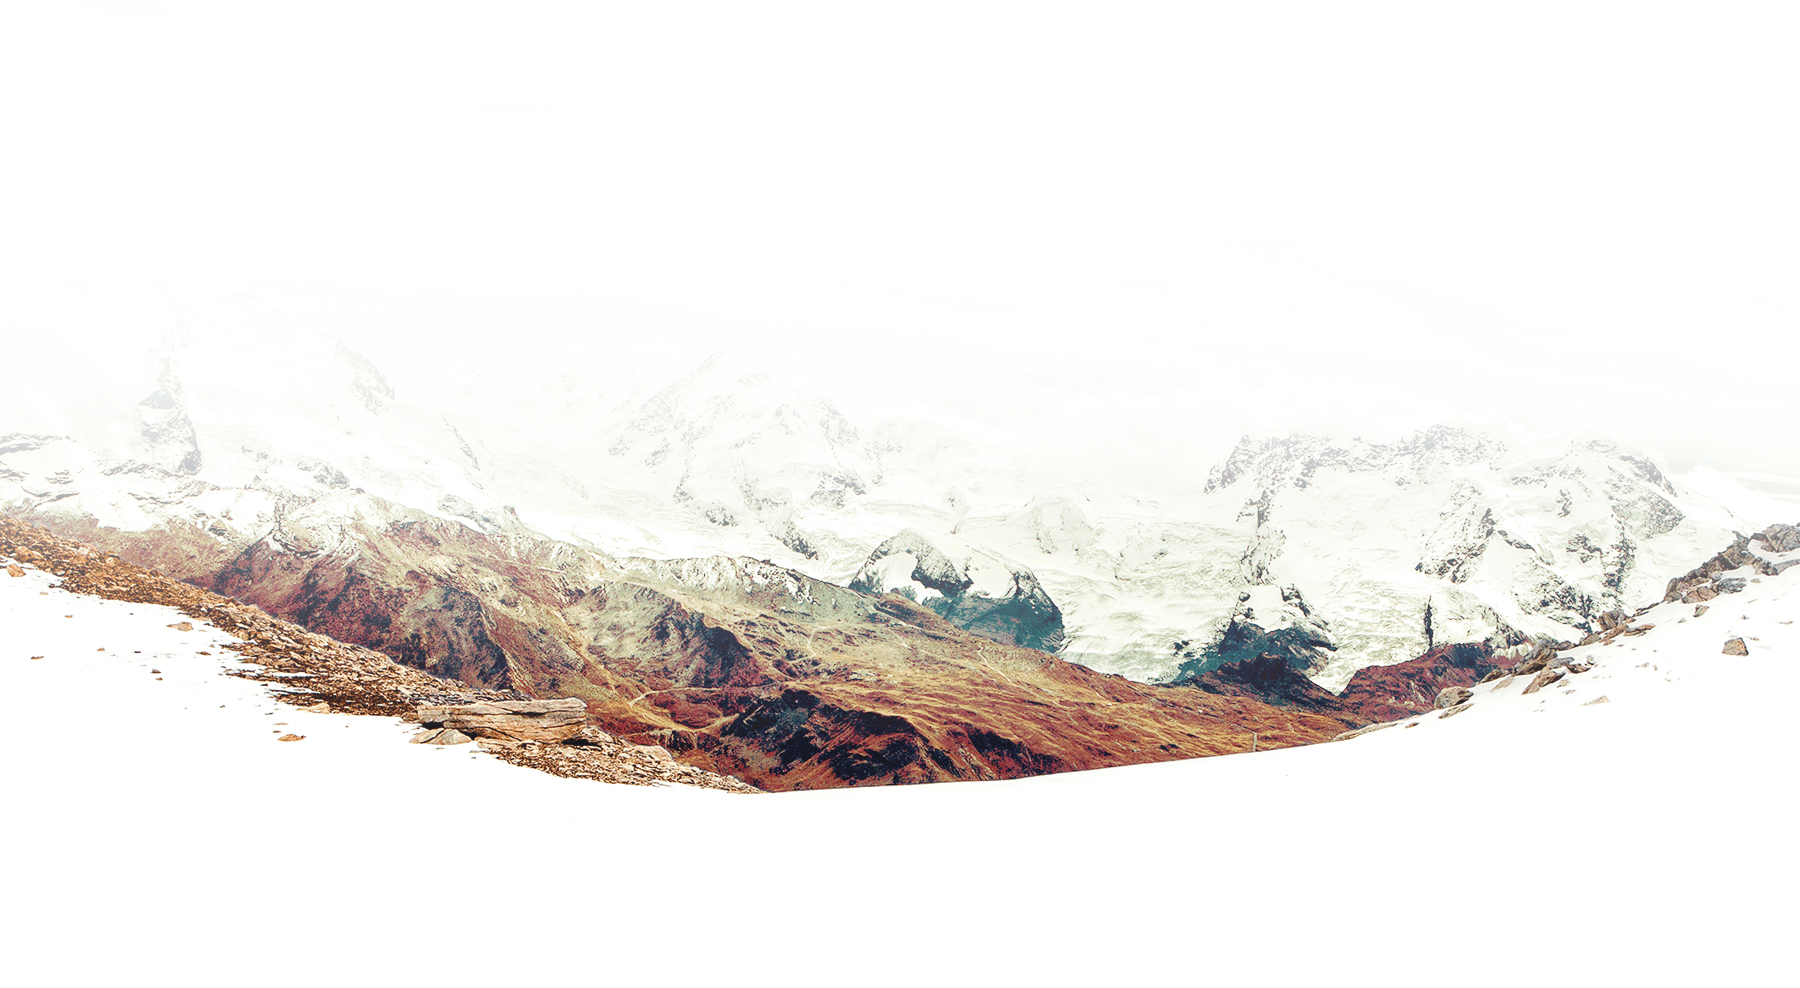
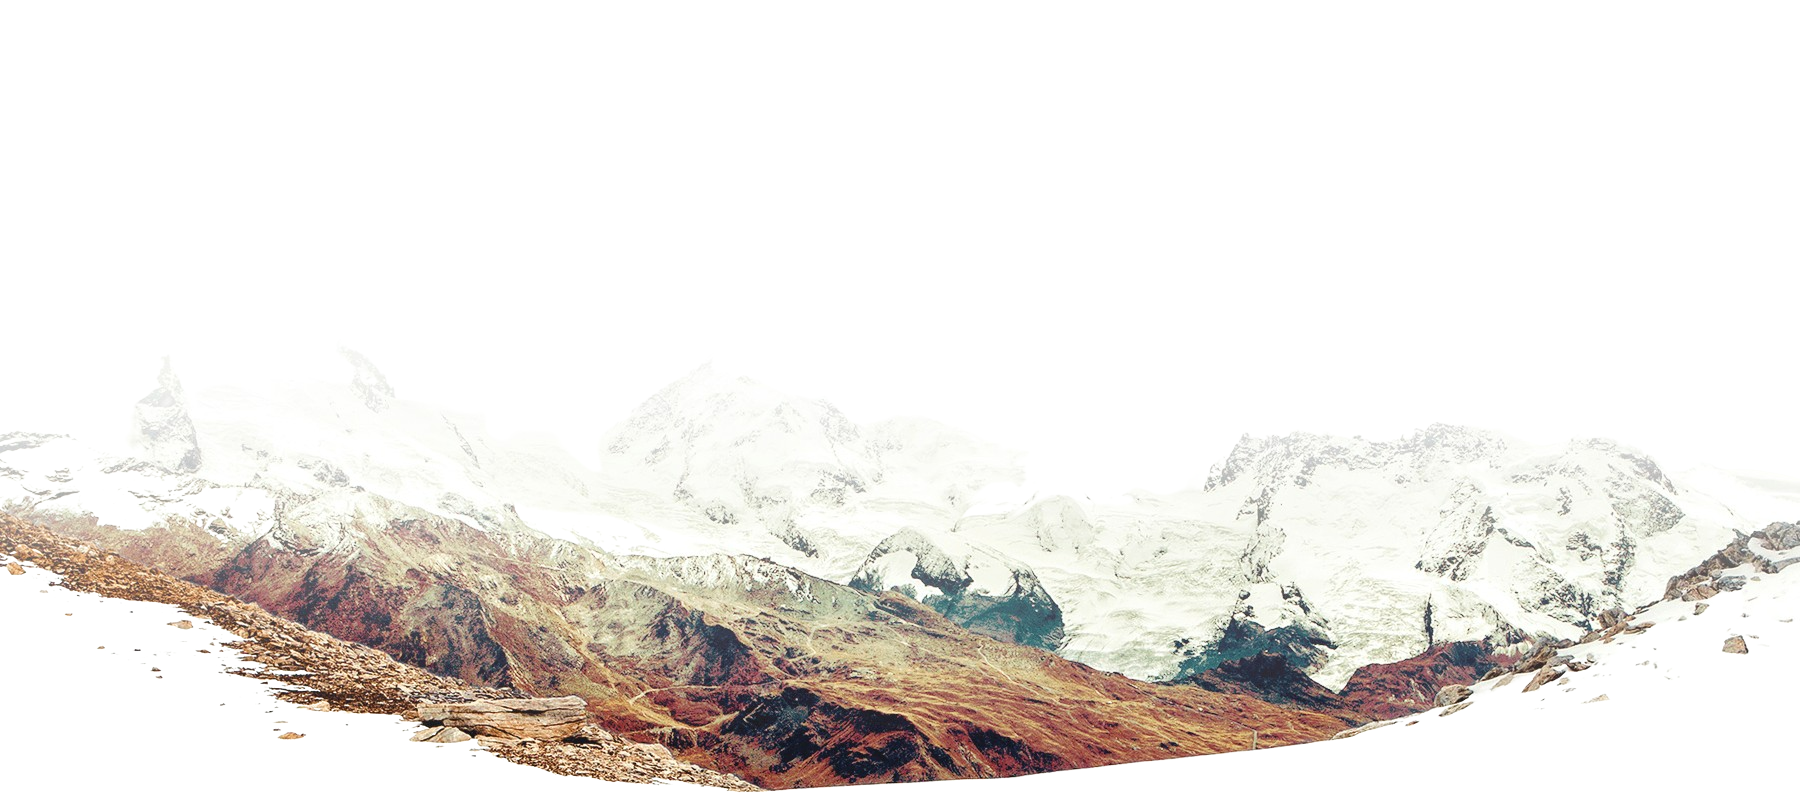
feat: top style

diff --git a/rpi_1/top/index.html b/rpi_1/top/index.html
@@ -6,50 +6,110 @@
 	<meta name="viewport" content="width=device-width, initial-scale=1.0">
 	<title>Document</title>
 	<link rel="stylesheet" href="style.css">
+	<link href='https://fonts.googleapis.com/css?family=Titillium Web' rel='stylesheet'>
 </head>
 <body>
 	<!-- Menu -->
-	<div class="container">
+	<div class="container menu_container">
 		<div class="language_selection">
-			<p>neutron<span class="red">Mail</span></p>
+			<p class="bold gray" style="font-size: 30px; margin-bottom: 10px;" >neutron<span class="purple">Mail</span></p>
 			<div class="container">
-				<p class="language selected dived">English</p>
-				<p class="language dived">French</p>
-				<p class="language dived">Italian</p>
+				<p class="language selected">English</p><span class="dived"></span>
+				<p class="language">French</p><span class="dived"></span>
+				<p class="language">Italian</p><span class="dived"></span>
 				<p class="language">Polish</p>
 			</div>
 		</div>
 		<div class="menu container">
-			<p class="menu">About</p>
-			<p class="menu">Security</p>
-			<p class="menu">Blog</p>
-			<p class="menu">Careers</p>
-			<p class="menu">Support</p>
-			<p class="menu">Donate</p>
-			<button class="menu">Log In</button>
-			<button class="sweet_button">Sign Up</button>
+			<p class="menu"><a href="#">About</a></p>
+			<p class="menu"><a href="#">Security</a></p>
+			<p class="menu"><a href="#">Blog</a></p>
+			<p class="menu"><a href="#">Careers</a></p>
+			<p class="menu"><a href="#">Support</a></p>
+			<p class="menu" style="margin-right: 100px;"><a href="#">Donate</a></p>
+			<div>
+				<p class="login_button"><a href="#">Log in</a></p>
+			</div>
+			<div>
+				<button class="purple_button_menu sweet_button sweet_button_shadow">Sign Up</button>
+			</div>
 		</div>
 	</div>
 	<!-- Picture -->
 	<div class="picture">
-		<figure class="picture">
+		<img src="../resources/main-screen-background.png" class="absolute picture">
 		<div class="container">
-			<div class="center_text">
-				<p class="menu">Secure Email Communication</p>
-				<p class="menu">Base in <span class="red">Somewere</span></p>
+			<div class="center_text center_container">
+				<p class="gray bold" style="font-size: 40px; margin-top: 20px;margin-bottom: 0px;">Secure Email Communication</p>
+				<p class="gray bold" style="font-size: 30; margin-top: 0px;margin-bottom: 60px;">Based in <span class="red">Somewhere</span></p>
 				<div>
-					<button class="sweet_button">Create account</button>
-					<button class="sweet_button"><i>appleIcon</i></button>
-					<button class="sweet_button"><i>GPlayIcon</i></button>
+					<figure class="center_gradient"></figure>
+					<button class="sweet_button sweet_button_shadow purple_button_center">Create account</button>
+					<button class="sweet_button purple_button"><i>appleIcon</i></button>
+					<button class="sweet_button purple_button"><i>GPlayIcon</i></button>
 				</div>
 			</div>
-			<div class="icons">
+			<div class="icons center_container">
 				<i class="icons">icon1</i>
 				<i class="icons">icon2</i>
 				<i class="icons">icon3</i>
 			</div>
 		</div>
-		</figure>
+	</div>
+	<!--Forts-->
+	<div class="grid_wrapper">
+		<div class="empty_box"></div>
+		<div class="swiss_box"></div>
+		<div></div>
+		<div></div>
+		<div></div>
+		<div></div>
+		<div>
+			<div class="container swiss_box">
+				<div>icon</div>
+				<div>
+					<p>Swiss Privacy</p>
+					<p>Data Security and Neutrality</p>
+				</div>
+			</div>
+			<div>
+				<p>NeutronMail is incorporated in Somewhere and all 
+					our servers are located in Switzerland. This means 
+					all user data is protected by strict Swiss privacy laws.</p>
+			</div>
+		</div>
+		<div class="encryption_box">
+			<div class="container">
+				<div>icon</div>
+				<div>
+					<p>Double Encryption</p>
+					<p>Automatic Email Security</p>
+				</div>
+			</div>
+			<div>
+				<p>All emails are secured automatically with end-to-end 
+					encryption. This means even we cannot decrypt and read 
+					your emails. As result, your ecrypted emails cannot 
+					be shared with third parties.</p>
+			</div>
+		</div>
+		<div>
+			<div class="container">
+				<div>icon</div>
+				<div>
+					<p>Anonymous Email</p>
+					<p>Protect Your Privacy</p>
+				</div>
+			</div>
+			<div>
+				<p>No personal information is required to create your 
+					secure email account. By default, we do not keep any 
+					IP logs which can be linked to your anonymous email 
+					account. Your privacy comes first.</p>
+			</div>
+		</div>
+		<div class="anon_email_box"></div>
+		<div class="physical_security_box"></div>
 	</div>
 </body>
 </html>

diff --git a/rpi_1/top/style.css b/rpi_1/top/style.css
@@ -1,38 +1,135 @@
+body {
+	font-family: 'Titillium Web';
+	font-size: 22px;
+}
+a{
+	color: rgb(112, 119, 134);
+}
+a:active{
+	color:rgb(112, 119, 134);
+}
+a:visited{
+	color: rgb(112, 119, 134);
+}
 .container{
 	display: flex;
 	flex-direction: row;
 }
+.menu_container{
+	margin: 30px 5% 0 15%;
+}
 .language_selection{
-	flex: 1 200px;
+	flex: 1 -10px;
+}
+.bold{
+	font-weight: 900;
 }
 div .menu{
 	flex: 1;
+	font-size: 12px;
 }
 p.selected{
 	text-decoration: underline;
+	font-weight: bold;
+}
+div p.language{
+	text-align: center;
+	vertical-align:middle;
 }
 p.language{
-	margin: 5px;
-	font-style: italic;
-}
-p.dived::after{
-	content: "/";
+	margin: 0px;
+	font-size: 16px;
 }
 
+.dived{
+	margin-left: 10px;
+	margin-right: 10px;
+}
+.dived::before{
+	content: "/";
+}
 .red{
 	color: red;
 }
+.gray{
+	color:rgb(112, 119, 134)
+}
+.purple{
+	color: rgb(109, 57, 125);;
+}
+button{
+	transition-duration: 0.4s;
+}
+button:hover{
+	cursor: pointer;
+}
+div p.login_button{
+	width: 60px;
+	margin-left: 10%;
+	color: rgb(117, 44, 139);
+}
+p.login_button a {
+	color: rgb(117, 44, 139);
+	text-decoration: none;
+}
+p.login_button{
+	font-size: 16px;
+	font-weight: 600;
+}
+p.login_button::before{
+	content: "i";
+}
 .sweet_button{
-	background-color: blueviolet;
+	background-color: white;
 	color: white;
+	border-radius: 20px;
 	border: none;
+	height: 40px;
+	transition-duration: 0.4s;
+	font-weight:600;
 }
-.picture{
-	height: 400px;
+.purple_button_center{
+	width: 200px;
+	background: rgb(120,161,193);
+	background: linear-gradient(90deg, rgba(120,161,193,1) 0%, rgba(95,2,124,1) 100%);
+}
+.purple_button_center:hover{
+	background: rgb(120,201,218);
+	background: linear-gradient(90deg, rgba(120,201,218,1) 26%, rgba(79,123,191,1) 100%);
+	width: 210px;
+}
+div button.purple_button_menu{
+	width: 60px;
+	margin: 0;
+}
+.purple_button_menu{
+	font-size: 12px;
+	width: 60px;
+	height: 35px;
+	background: rgb(26,162,209);
+	background: linear-gradient(315deg, rgba(26,162,209,1) 0%, rgba(91,35,155,1) 80%);
+}
+.purple_button{
+	width: 40px;
+	background-color: rgb(109, 57, 125);
+}
+.purple_button:hover{
+	background-color: rgb(26,162,209); 
+	width: 50px;
+}
+button.sweet_button_shadow{
+	box-shadow: 0 8px 16px 0 rgba(0,0,0,0.2), 0 6px 20px 0 rgba(0,0,0,0.19);
+}
+div.picture{
 	width: 100%;
+	height: 450px;
+	z-index: -1;
 }
-figure.picture{
-	background-image: url("../resources/main-screen-background.png");
+img.picture{
+	object-fit: cover;
+	width: 94%;
+	margin-left: 3%;
+	margin-right: 3%;
 }
 .absolute{
 	position: absolute;
@@ -40,13 +137,27 @@ figure.picture{
 p.menu{
 	vertical-align: middle;
 	text-align: center;
+	color: rgb(112, 119, 134);
+	margin-left: 3%;
 }
 .center_text{
 	flex: 1;
 	align-items: center;
 	text-align: center;
 	vertical-align: middle;
-	align-items: center;
+	z-index: 1000;
+}
+.center_container{
+	margin-top: 20vh;
+}
+.center_gradient{
+	position: absolute;
+	left: calc(50vw - 300px);
+	background: rgb(63, 119, 251);
+	background: radial-gradient(at 50% -40%, rgba(63, 119, 251,1) 0%, rgba(252,70,107,0) 70%);
+	width: 500px;
+	height: 50px;
+	z-index: -1;
 }
 div.icons{
 	position: absolute; 
@@ -56,3 +167,34 @@ div.icons{
 	position: relative;
 	display: block;
 }
+.grid_wrapper{
+	z-index: 10;
+	display: grid;
+	grid-template-columns: 10% 1fr 1fr 1fr 10%;
+	width: 90%;
+	column-gap: 5%;
+}
+.swiss_box{
+	border-right-style: solid;
+	border-color: black;
+}
+.encryption_box{
+	border-right-style: solid;
+	border-color: black;
+}
+.anon_email_box{
+	border-top-style: solid;
+	border-color: black;
+}
+.empty_box{
+	height: 100px;
+}
+.physical_security_box{
+	grid-column-start: 1;
+	grid-column-end: 4;
+	border-right: solid;
+	border-bottom: solid; 
+	border-color: black;
+	height: 200px;
+}
+
